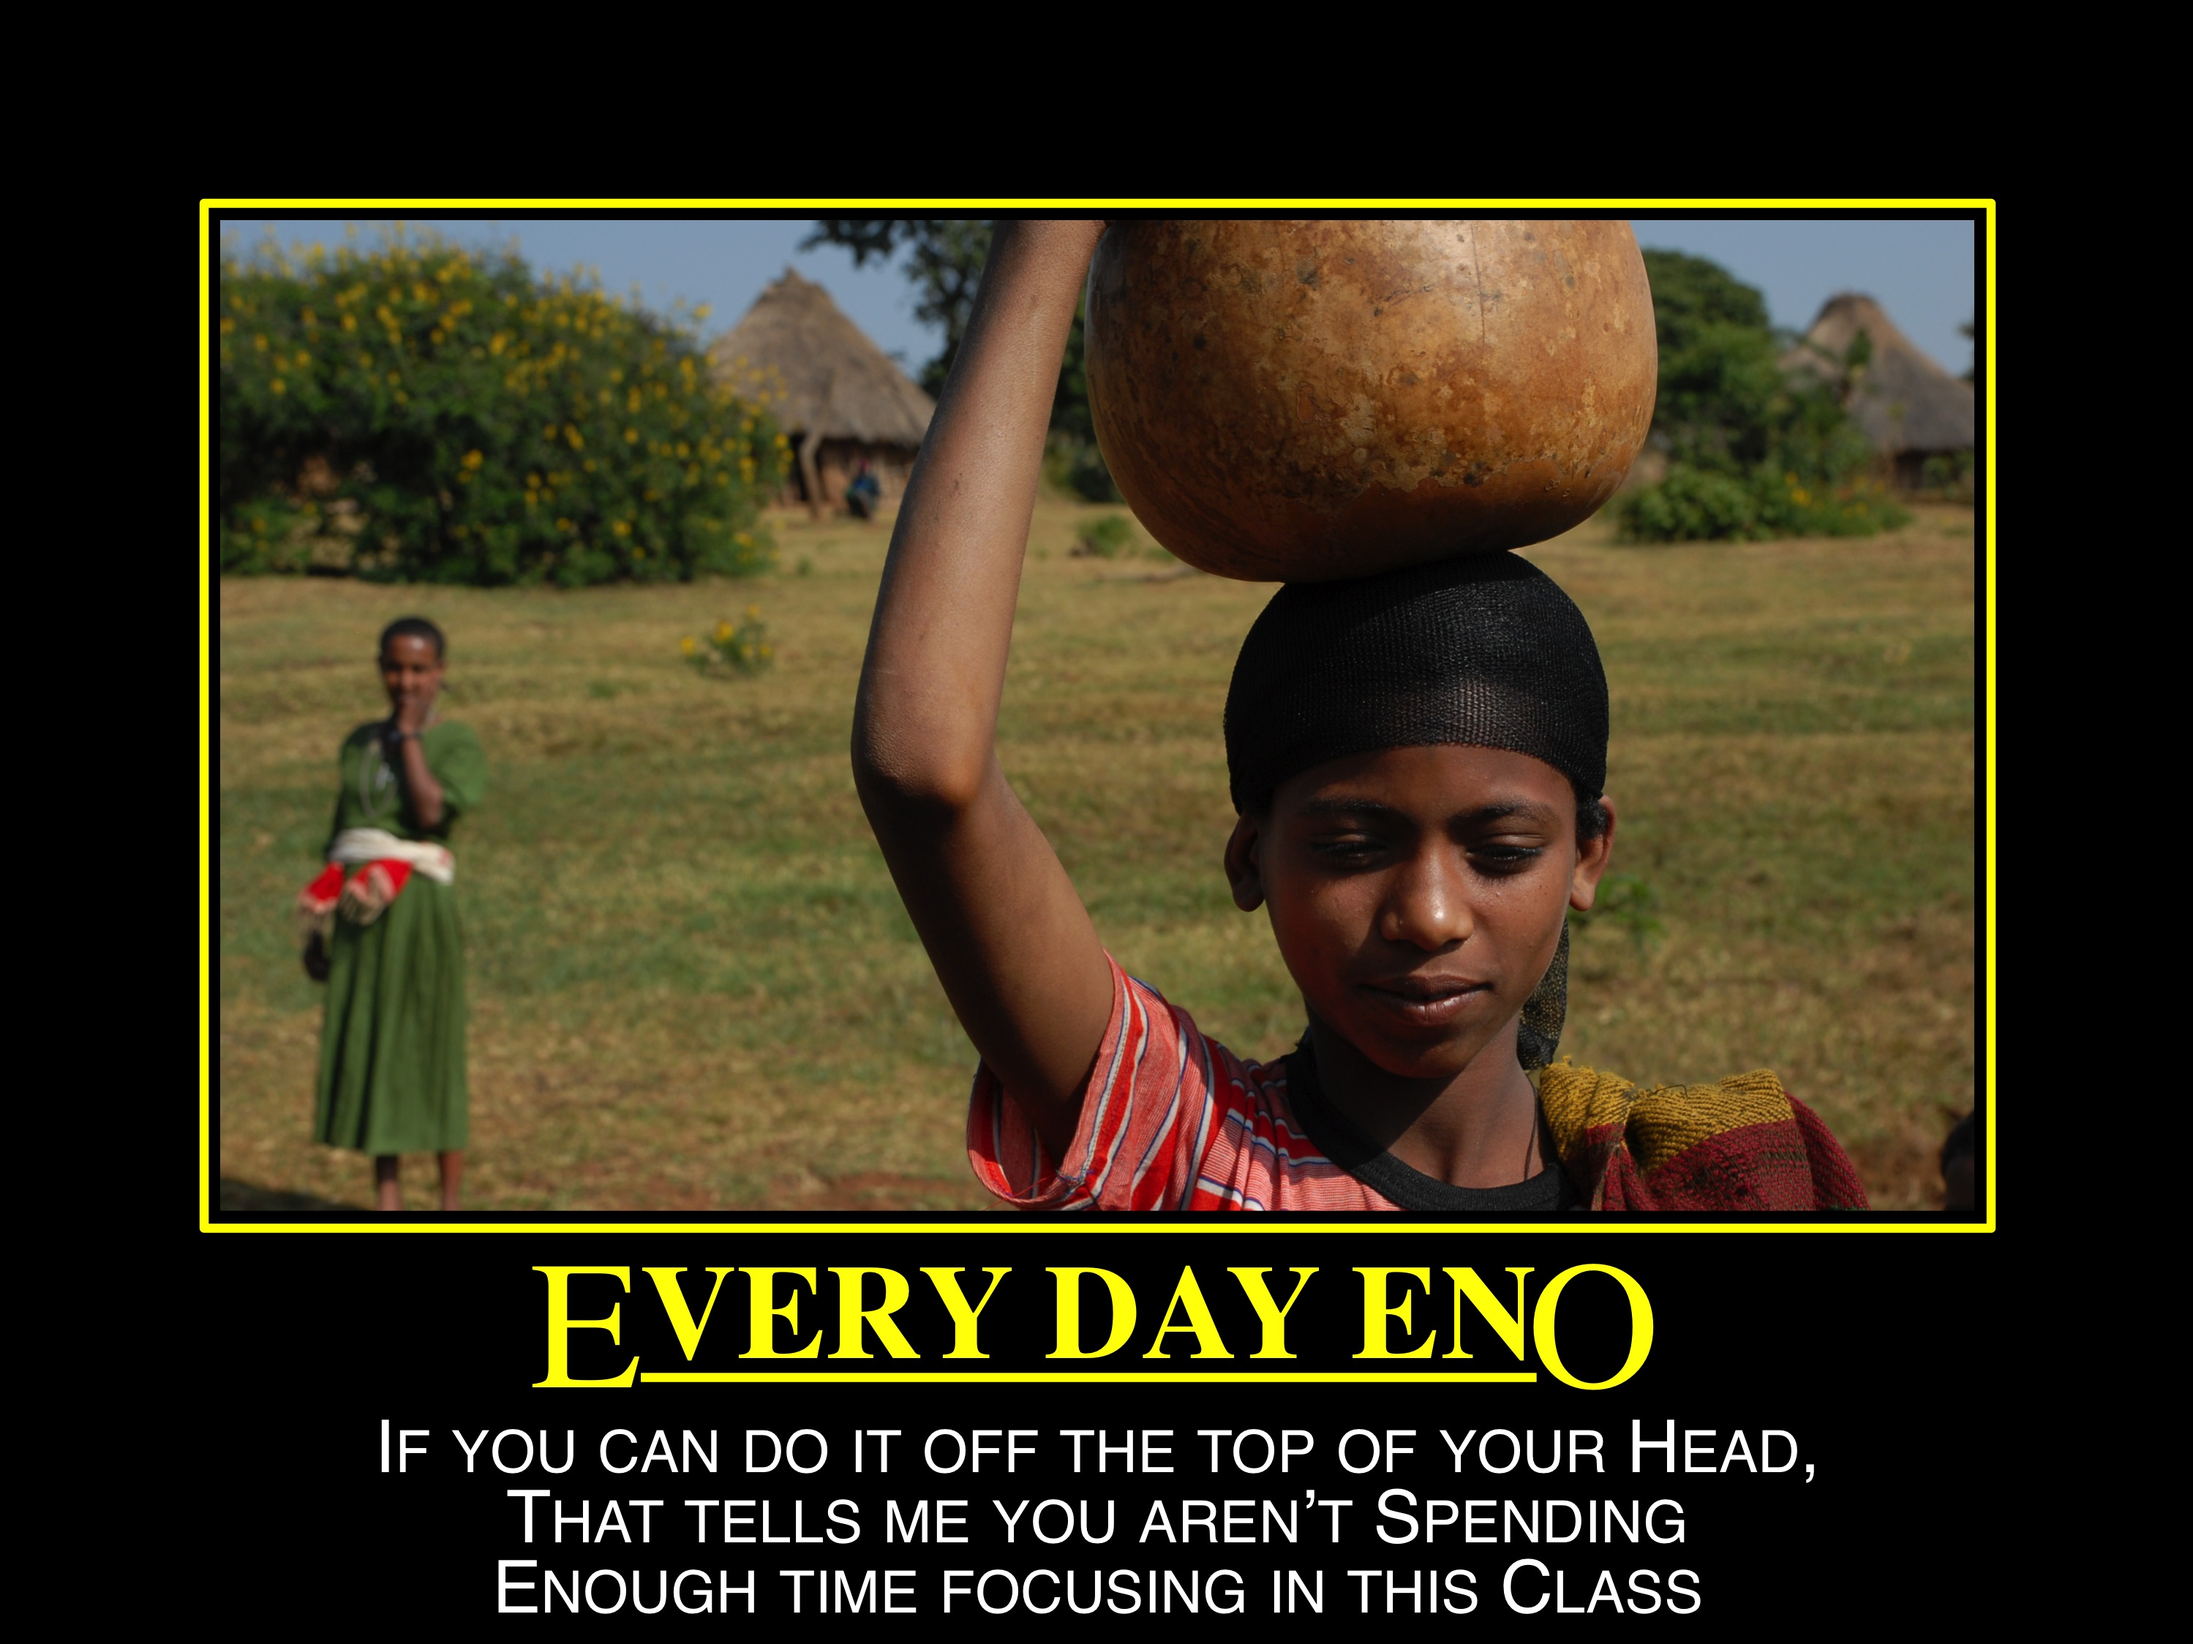
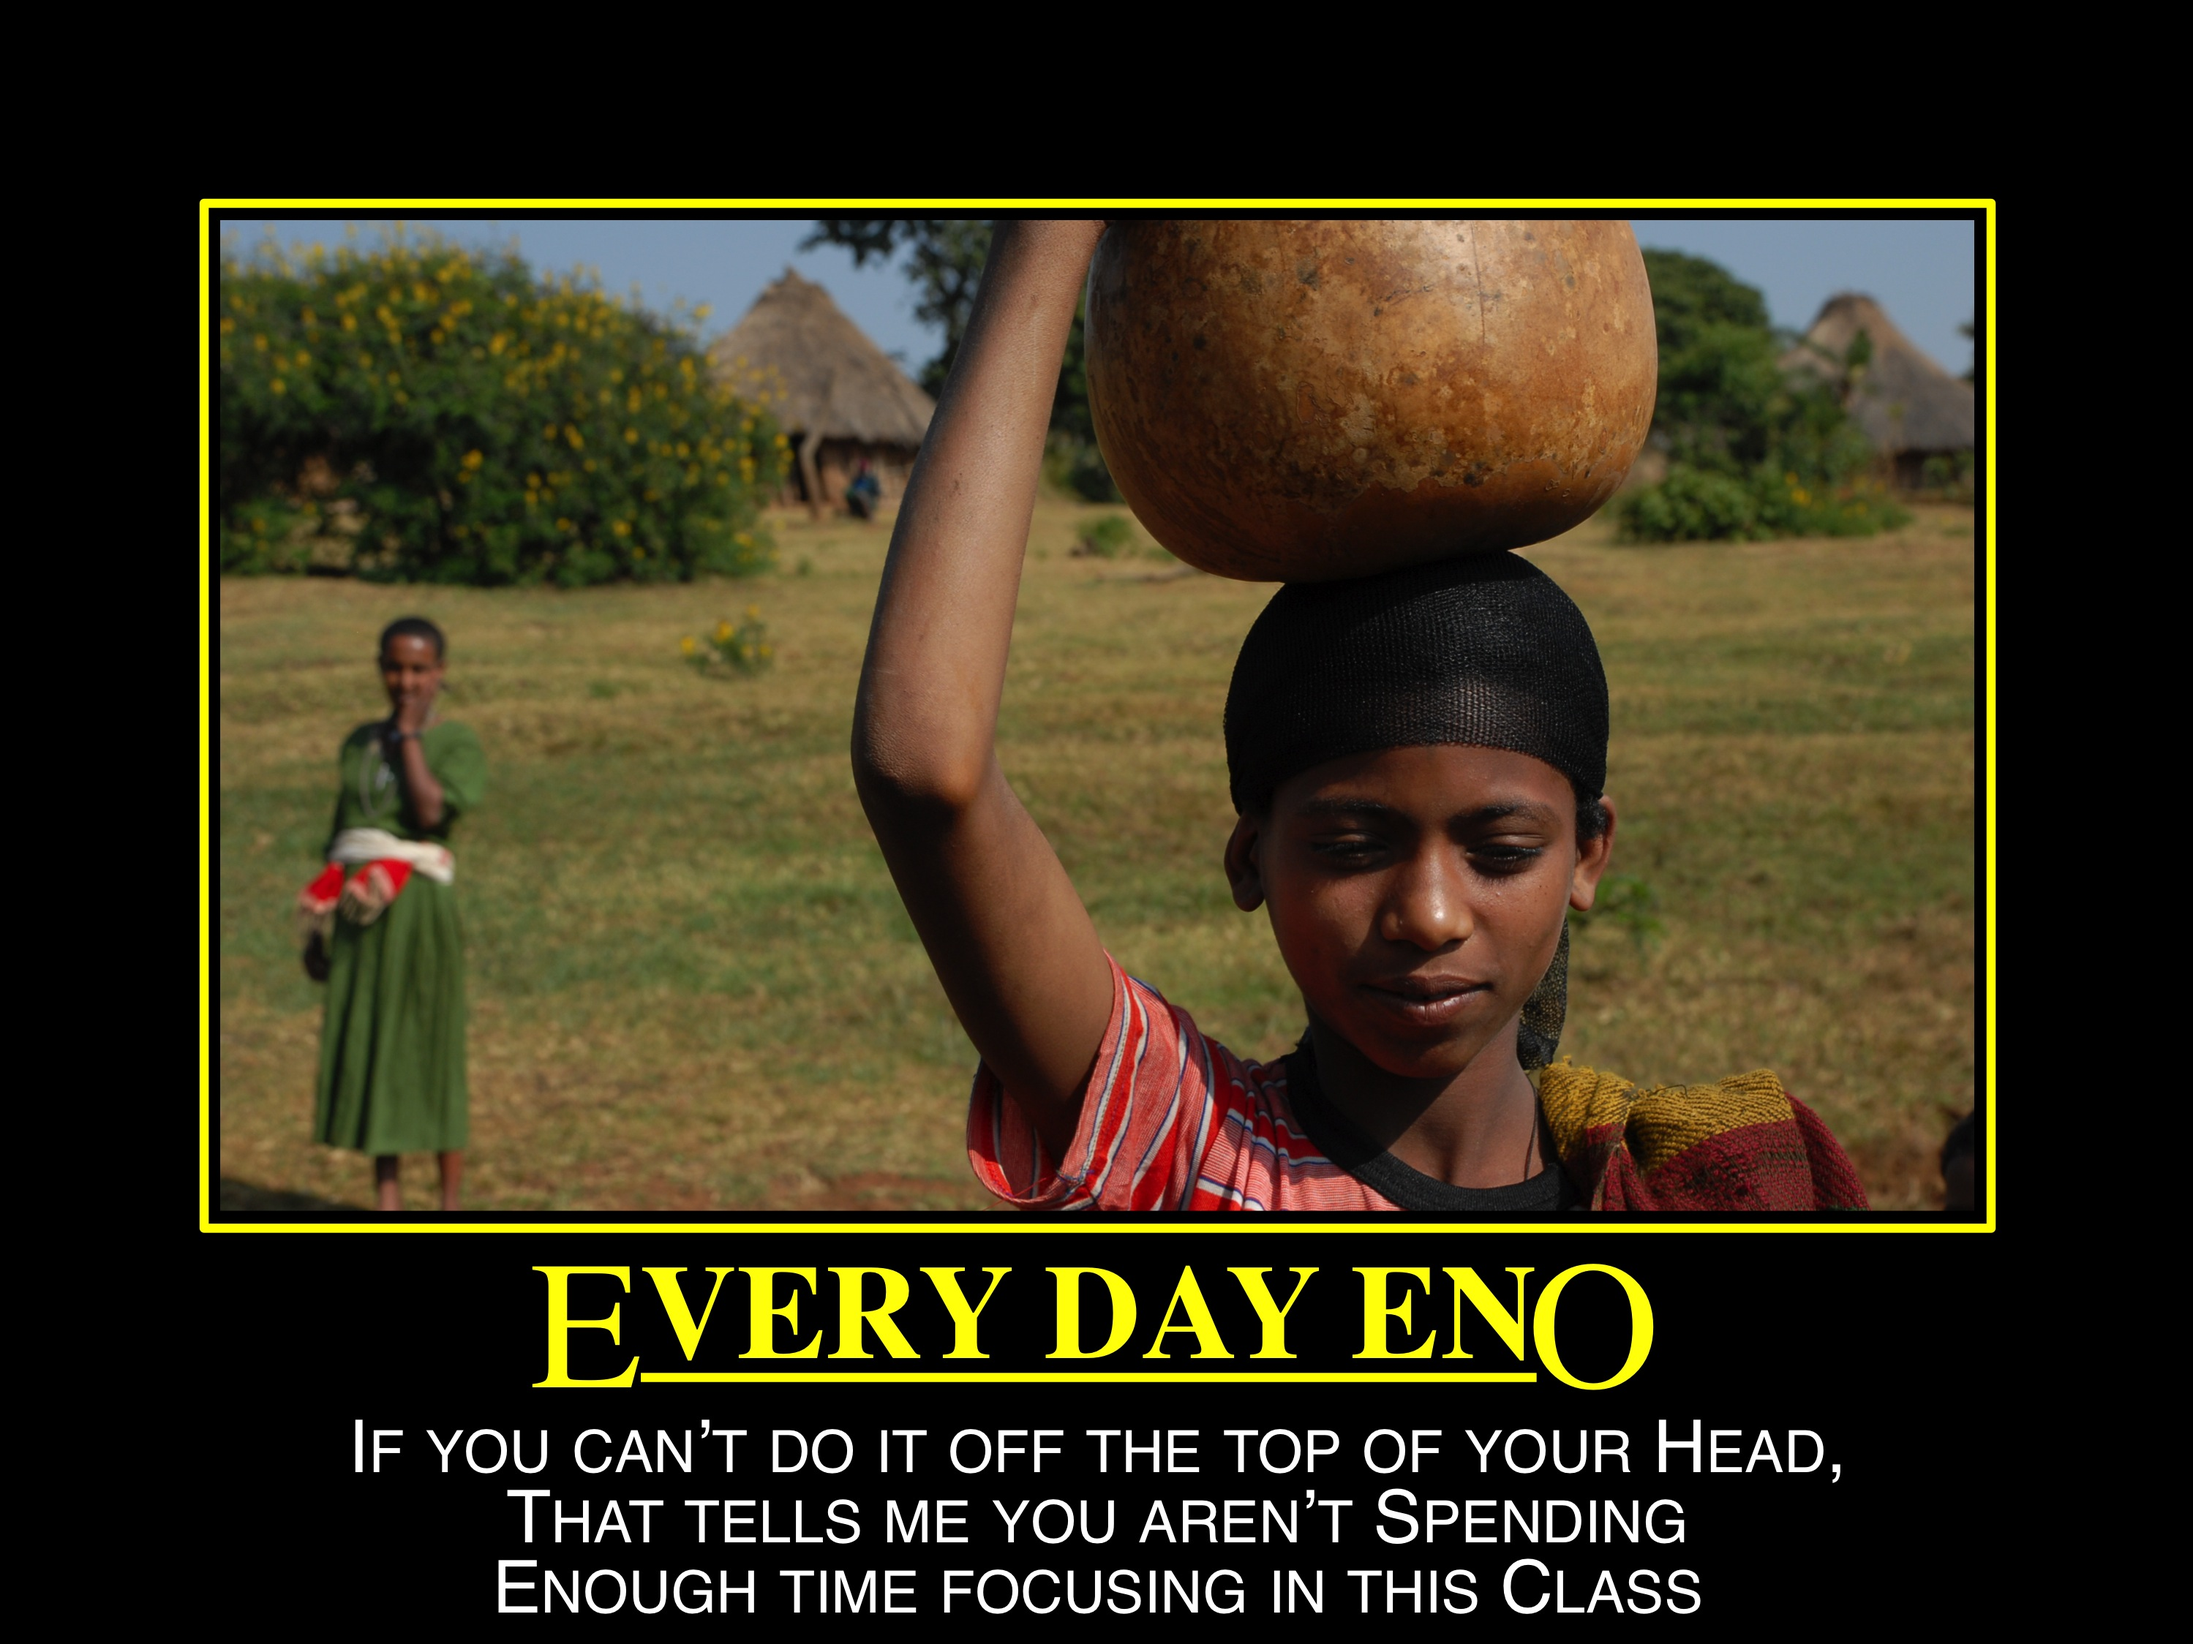
Fixed Incorrect Quote

Changed region(s): [[0.1551, 0.8407, 0.8376, 0.903]]

diff --git a/quotes/index.html b/quotes/index.html
@@ -48,7 +48,7 @@
 					<!-- Thumb Items -->
 					<!--This is the general format, change anything surrounded by #hashtags#:
 
-						<article class="item thumb" data-width="300">
+						<article class="item thumb" data-width="250">
 							<a href="quotes/fulls/#imgName.jpg#"><img src="quotes/thumbs/#imgName.jpg#"></a>
 						</article>
 
